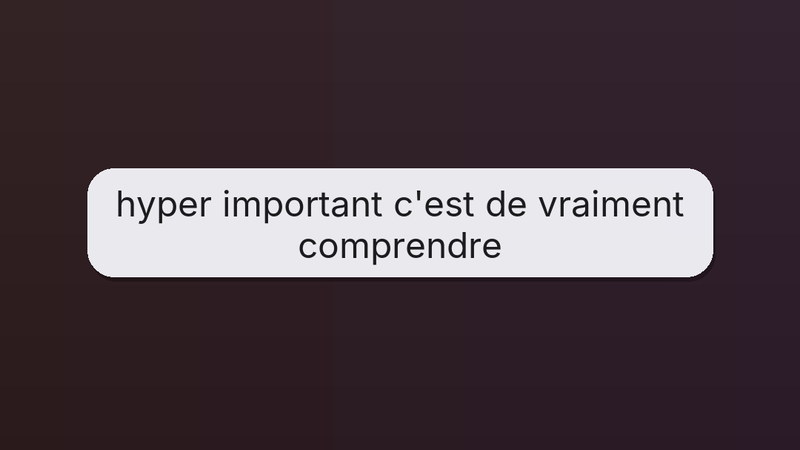
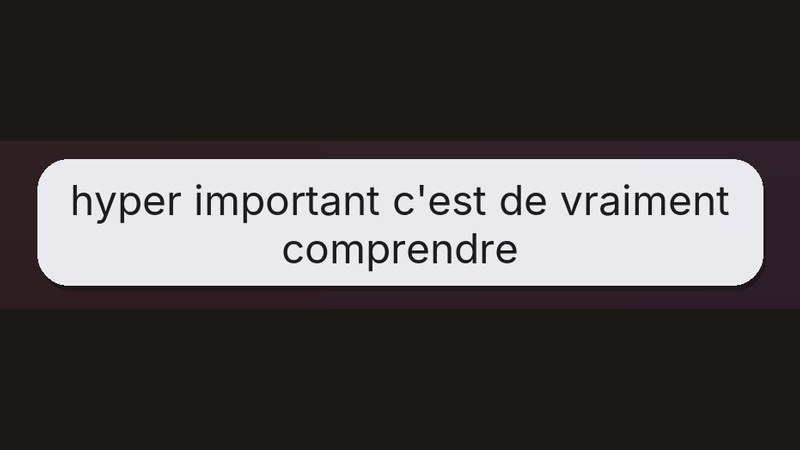
fix(clips): drop overlay filler copy and enlarge look thumbs
The options overlay no longer sells the AI or the beta wait, and the style previews crop tighter so subtitle and title samples read in the picker.

Changed region(s): [[0.0312, 0.3422, 0.9688, 0.6533], [0.75, 0.0, 1.0, 0.3111], [0.375, 0.0, 0.4062, 0.0622]]

diff --git a/src/components/clips/ClipLookFields.tsx b/src/components/clips/ClipLookFields.tsx
@@ -20,7 +20,7 @@ const FORMATS = [
   { value: "1:1" as const, label: "1:1" },
 ];
 
-const LOOK_PREVIEW_V = "3";
+const LOOK_PREVIEW_V = "4";
 
 const SUB_PREVIEW_FRAMES: Record<string, string[]> = Object.fromEntries(
   STYLE_ORDER.map((id) => [
@@ -45,24 +45,22 @@ function segmentClass(selected: boolean) {
 function LookStill({
   frames,
   frameIndex,
-  align = "bottom",
 }: {
   frames: string[];
   frameIndex: number;
-  align?: "bottom" | "center";
 }) {
   const i = frames.length ? ((frameIndex % frames.length) + frames.length) % frames.length : 0;
   return (
-    <div className="relative aspect-[16/10] w-full overflow-hidden bg-[#1c1917]">
+    <div className="relative aspect-[16/11] w-full overflow-hidden bg-[#1c1917]">
       {frames.map((src, idx) => (
         <img
           key={src}
           src={src}
           alt=""
           draggable={false}
-          className={`absolute inset-0 h-full w-full object-cover transition-opacity duration-500 ease-out ${
-            align === "center" ? "object-center" : "object-bottom"
-          } ${idx === i ? "opacity-100" : "opacity-0"}`}
+          className={`absolute inset-0 h-full w-full object-cover object-center transition-opacity duration-500 ease-out ${
+            idx === i ? "opacity-100" : "opacity-0"
+          }`}
         />
       ))}
     </div>
@@ -335,7 +333,6 @@ export function ClipLookStylePicker({
                     ? (SUB_PREVIEW_FRAMES[styleKey] ?? [])
                     : TITLE_PREVIEW_FRAMES[styleKey as TitleStyleId]
                 }
-                align={lookTab === "titles" ? "center" : "bottom"}
                 frameIndex={
                   lookTab === "subtitles" &&
                   selected &&

diff --git a/src/components/clips/ClipOptionsOverlay.tsx b/src/components/clips/ClipOptionsOverlay.tsx
@@ -167,9 +167,6 @@ export function ClipOptionsOverlay({
               onStreamGamingChange={onStreamGamingChange}
               quotaExhausted={quotaExhausted}
             />
-            <p className="text-[12px] leading-snug text-muted-foreground">
-              {t("look.momentsHint")}
-            </p>
 
             {sourceTooLongForAuto && (
               <div
@@ -227,10 +224,7 @@ export function ClipOptionsOverlay({
             )}
           </div>
 
-          <div className="shrink-0 space-y-3 px-6 pb-5 pt-2">
-            <p className="text-center text-[12px] leading-relaxed text-muted-foreground">
-              {t("submit.betaNotice", { duration: t("submit.betaNoticeDuration") })}
-            </p>
+          <div className="shrink-0 px-6 pb-5 pt-2">
             {submitStatus === "loading" ? (
               <div className="flex h-11 items-center justify-center gap-3 text-sm text-muted-foreground">
                 <Loader2 className="size-4 animate-spin text-primary" />

diff --git a/backend-clips/export_look_previews.py b/backend-clips/export_look_previews.py
@@ -19,7 +19,6 @@ SUB_STYLES = lab.NEW_STYLES
 TITLE_STYLES = titles.STYLE_IDS
 THUMB_W = 800
 THUMB_H = 450
-ASPECT = THUMB_W / THUMB_H
 
 
 def _alpha_box(overlay: np.ndarray) -> tuple[int, int, int, int] | None:
@@ -29,7 +28,7 @@ def _alpha_box(overlay: np.ndarray) -> tuple[int, int, int, int] | None:
     return int(ys.min()), int(ys.max()) + 1, int(xs.min()), int(xs.max()) + 1
 
 
-def _pad_to_aspect(
+def _padded_box(
     y0: int, y1: int, x0: int, x1: int, h: int, w: int, pad: float
 ) -> tuple[int, int, int, int]:
     bh = max(1, y1 - y0)
@@ -38,37 +37,32 @@ def _pad_to_aspect(
     y1 = min(h, y1 + int(bh * pad))
     x0 = max(0, x0 - int(bw * pad))
     x1 = min(w, x1 + int(bw * pad))
-    bh = max(1, y1 - y0)
-    bw = max(1, x1 - x0)
-    if bw / bh < ASPECT:
-        need = int(bh * ASPECT) - bw
-        x0 = max(0, x0 - need // 2)
-        x1 = min(w, x0 + int(bh * ASPECT))
-        if x1 - x0 < int(bh * ASPECT):
-            x0 = max(0, x1 - int(bh * ASPECT))
-    else:
-        need = int(bw / ASPECT) - bh
-        y0 = max(0, y0 - need // 2)
-        y1 = min(h, y0 + int(bw / ASPECT))
-        if y1 - y0 < int(bw / ASPECT):
-            y0 = max(0, y1 - int(bw / ASPECT))
     return y0, y1, x0, x1
 
 
-def _thumb(composed: np.ndarray, overlay: np.ndarray, pad: float) -> Image.Image:
+def _thumb(
+    composed: np.ndarray, overlay: np.ndarray, pad: float, zoom: float
+) -> Image.Image:
+    """Crop around the text, then scale up so glyphs fill more of the thumb."""
     box = _alpha_box(overlay)
     h, w, _ = composed.shape
     if box is None:
         y0, y1, x0, x1 = int(h * 0.55), int(h * 0.95), 0, w
     else:
-        y0, y1, x0, x1 = _pad_to_aspect(*box, h, w, pad)
+        y0, y1, x0, x1 = _padded_box(*box, h, w, pad)
     crop = composed[y0:y1, x0:x1]
     img = Image.fromarray(crop, mode="RGB")
+    scale = min(THUMB_W / img.width, THUMB_H / img.height) * max(1.0, zoom)
+    nw = max(1, int(round(img.width * scale)))
+    nh = max(1, int(round(img.height * scale)))
+    img = img.resize((nw, nh), Image.Resampling.LANCZOS)
+    left = max(0, (img.width - THUMB_W) // 2)
+    top = max(0, (img.height - THUMB_H) // 2)
+    img = img.crop(
+        (left, top, left + min(THUMB_W, img.width), top + min(THUMB_H, img.height))
+    )
     canvas = Image.new("RGB", (THUMB_W, THUMB_H), (28, 24, 22))
-    img.thumbnail((THUMB_W, THUMB_H), Image.Resampling.LANCZOS)
-    x = (THUMB_W - img.width) // 2
-    y = (THUMB_H - img.height) // 2
-    canvas.paste(img, (x, y))
+    canvas.paste(img, ((THUMB_W - img.width) // 2, (THUMB_H - img.height) // 2))
     return canvas
 
 
@@ -124,9 +118,8 @@ def main() -> None:
     bg = lab._background()
     print("sous-titres")
     for style in SUB_STYLES:
-        blocks = lab._blocks_for_style(rs, style)
         for i, t in enumerate(_times_for(style)):
-            bloc = rs.get_bloc_at_with_silence_gate(t, blocks)
+            bloc = rs.get_bloc_at_with_silence_gate(t, lab._blocks_for_style(rs, style))
             if bloc is None:
                 overlay = np.zeros((lab.FRAME_H, lab.FRAME_W, 4), dtype=np.uint8)
             else:
@@ -140,7 +133,13 @@ def main() -> None:
                     layout_mode="normal",
                 )
             composed = _compose(overlay, bg)
-            _save(_thumb(composed, overlay, pad=0.18), f"sub-{style}-{i}.jpg")
+            if style in ("impact", "neon"):
+                zoom = 1.12
+            elif style == "bubble":
+                zoom = 1.16
+            else:
+                zoom = 1.24
+            _save(_thumb(composed, overlay, pad=0.14, zoom=zoom), f"sub-{style}-{i}.jpg")
     print("titres")
     tbg = lab._title_background()
     for style in TITLE_STYLES:
@@ -148,7 +147,7 @@ def main() -> None:
         if overlay is None:
             overlay = np.zeros((lab.FRAME_H, lab.FRAME_W, 4), dtype=np.uint8)
         composed = _compose(overlay, tbg)
-        _save(_thumb(composed, overlay, pad=0.28), f"title-{style}.jpg")
+        _save(_thumb(composed, overlay, pad=0.16, zoom=1.22), f"title-{style}.jpg")
     print("ok", OUT)
 
 
